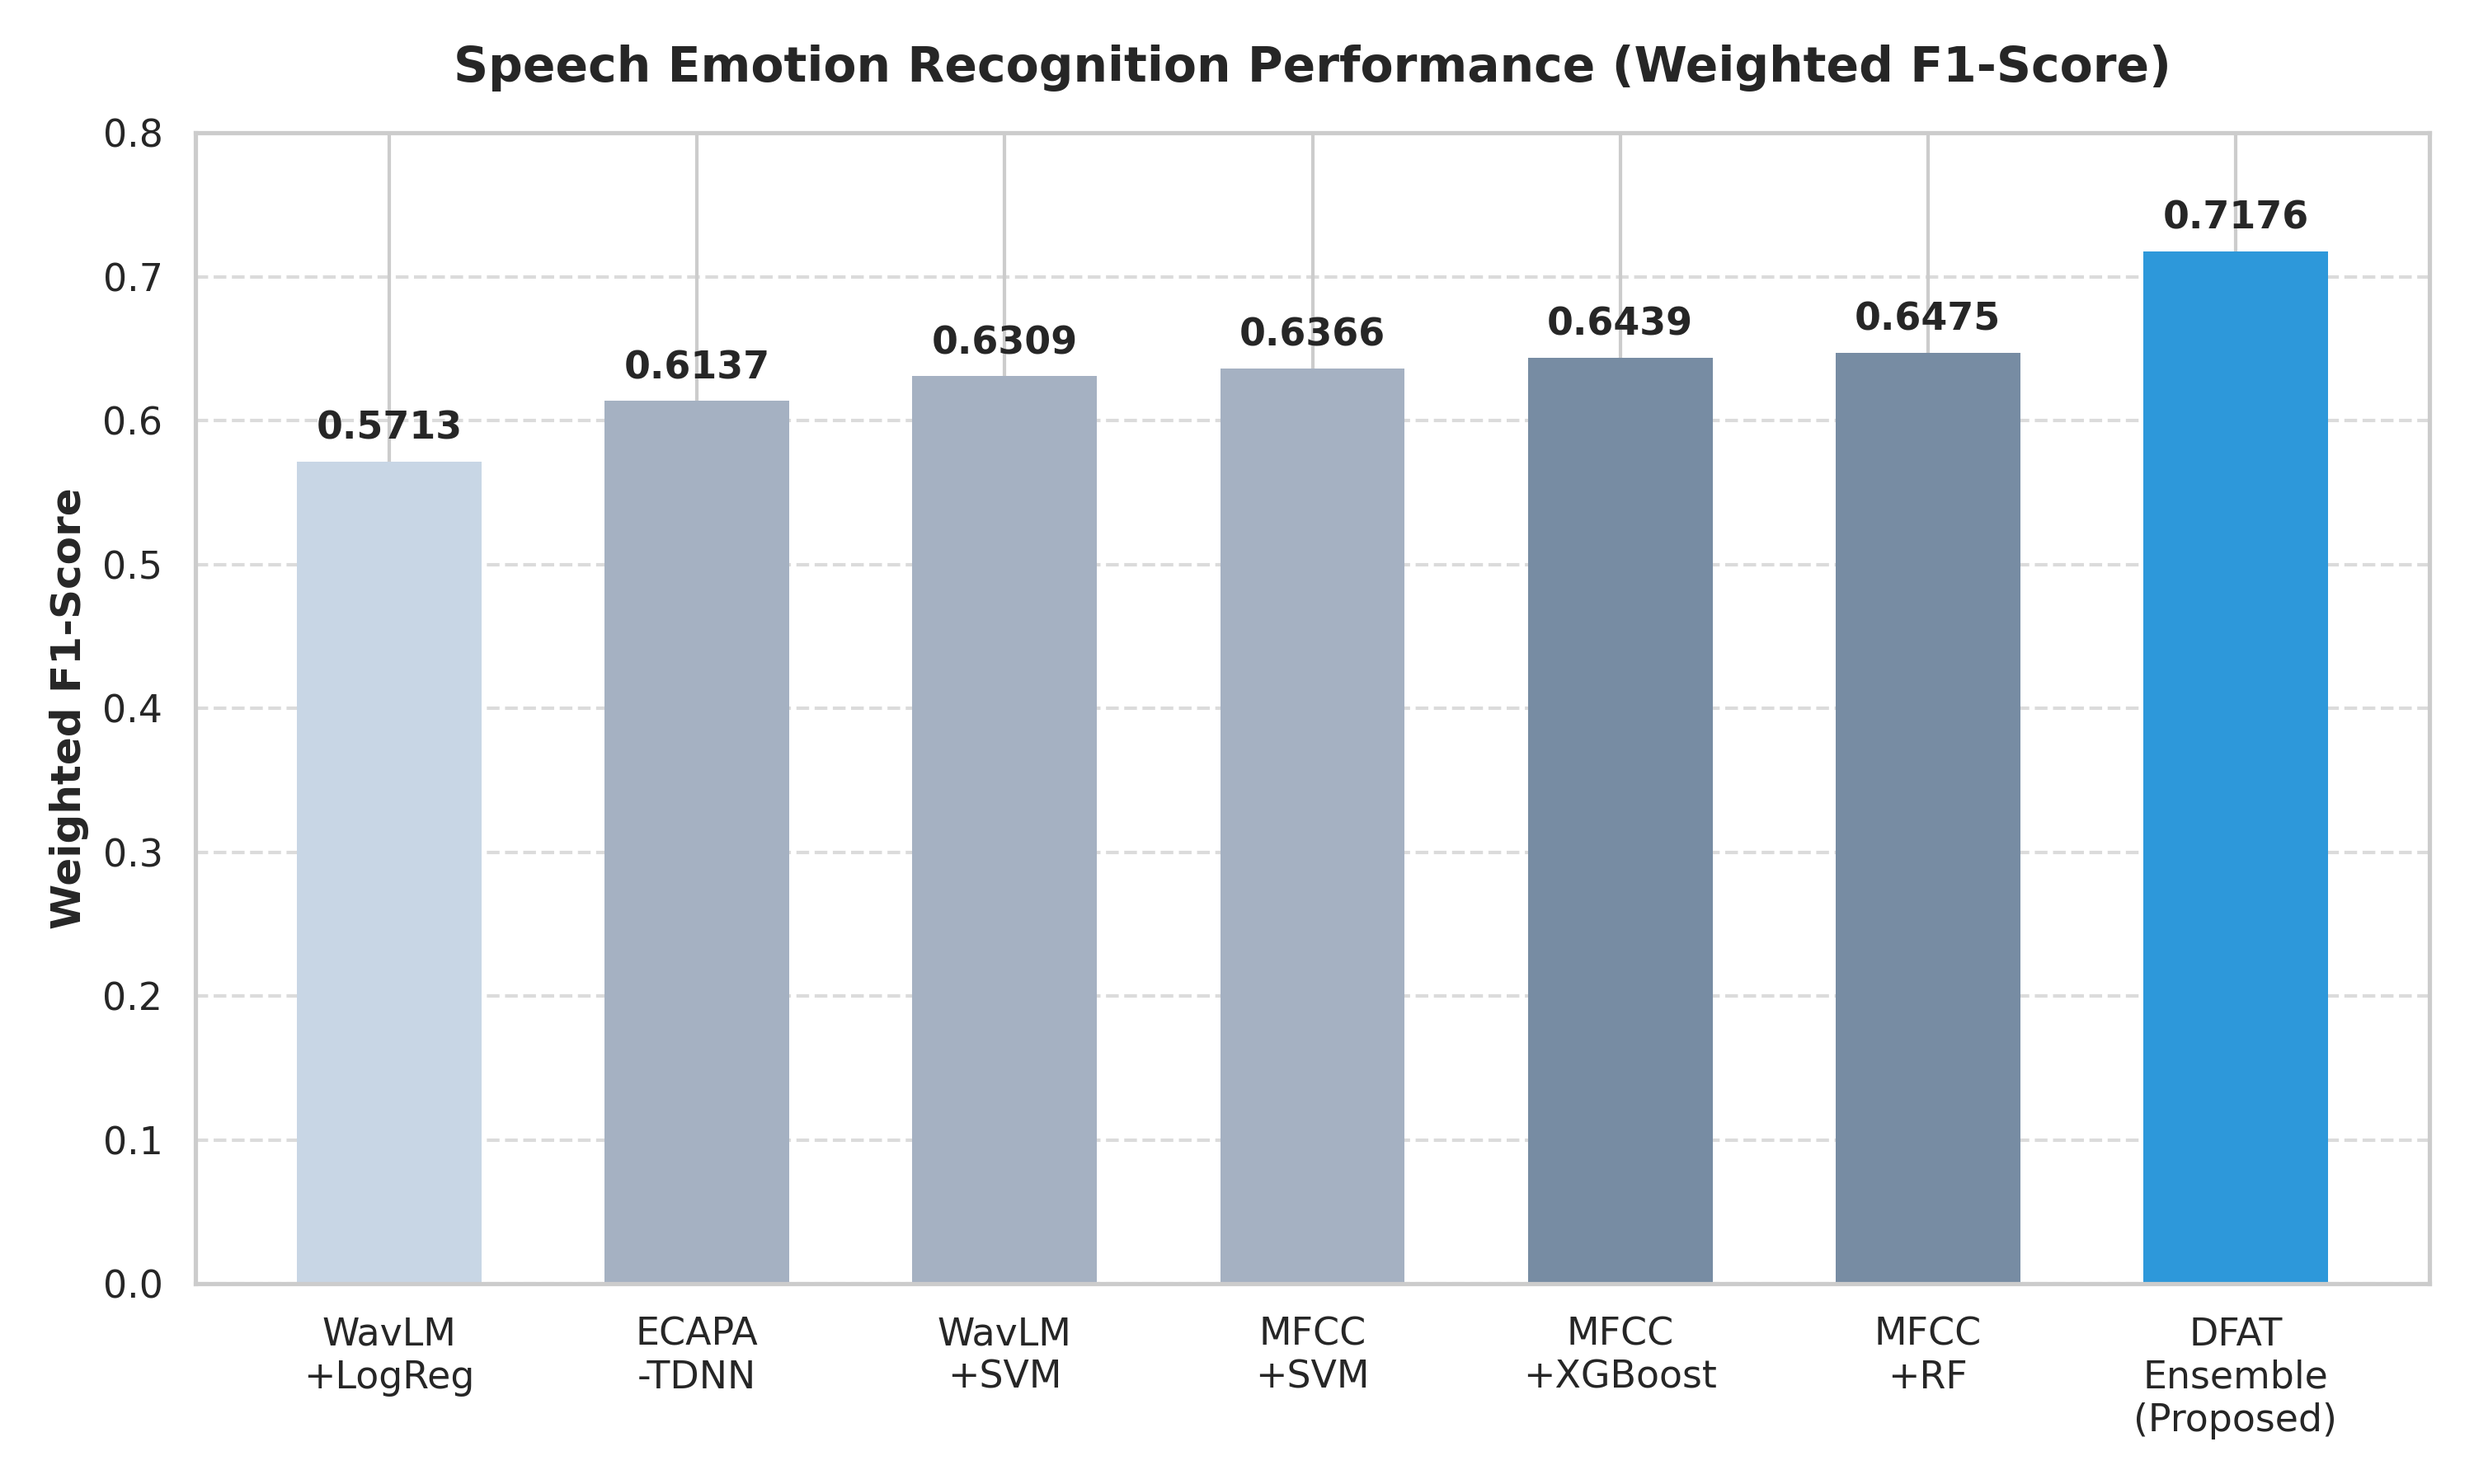
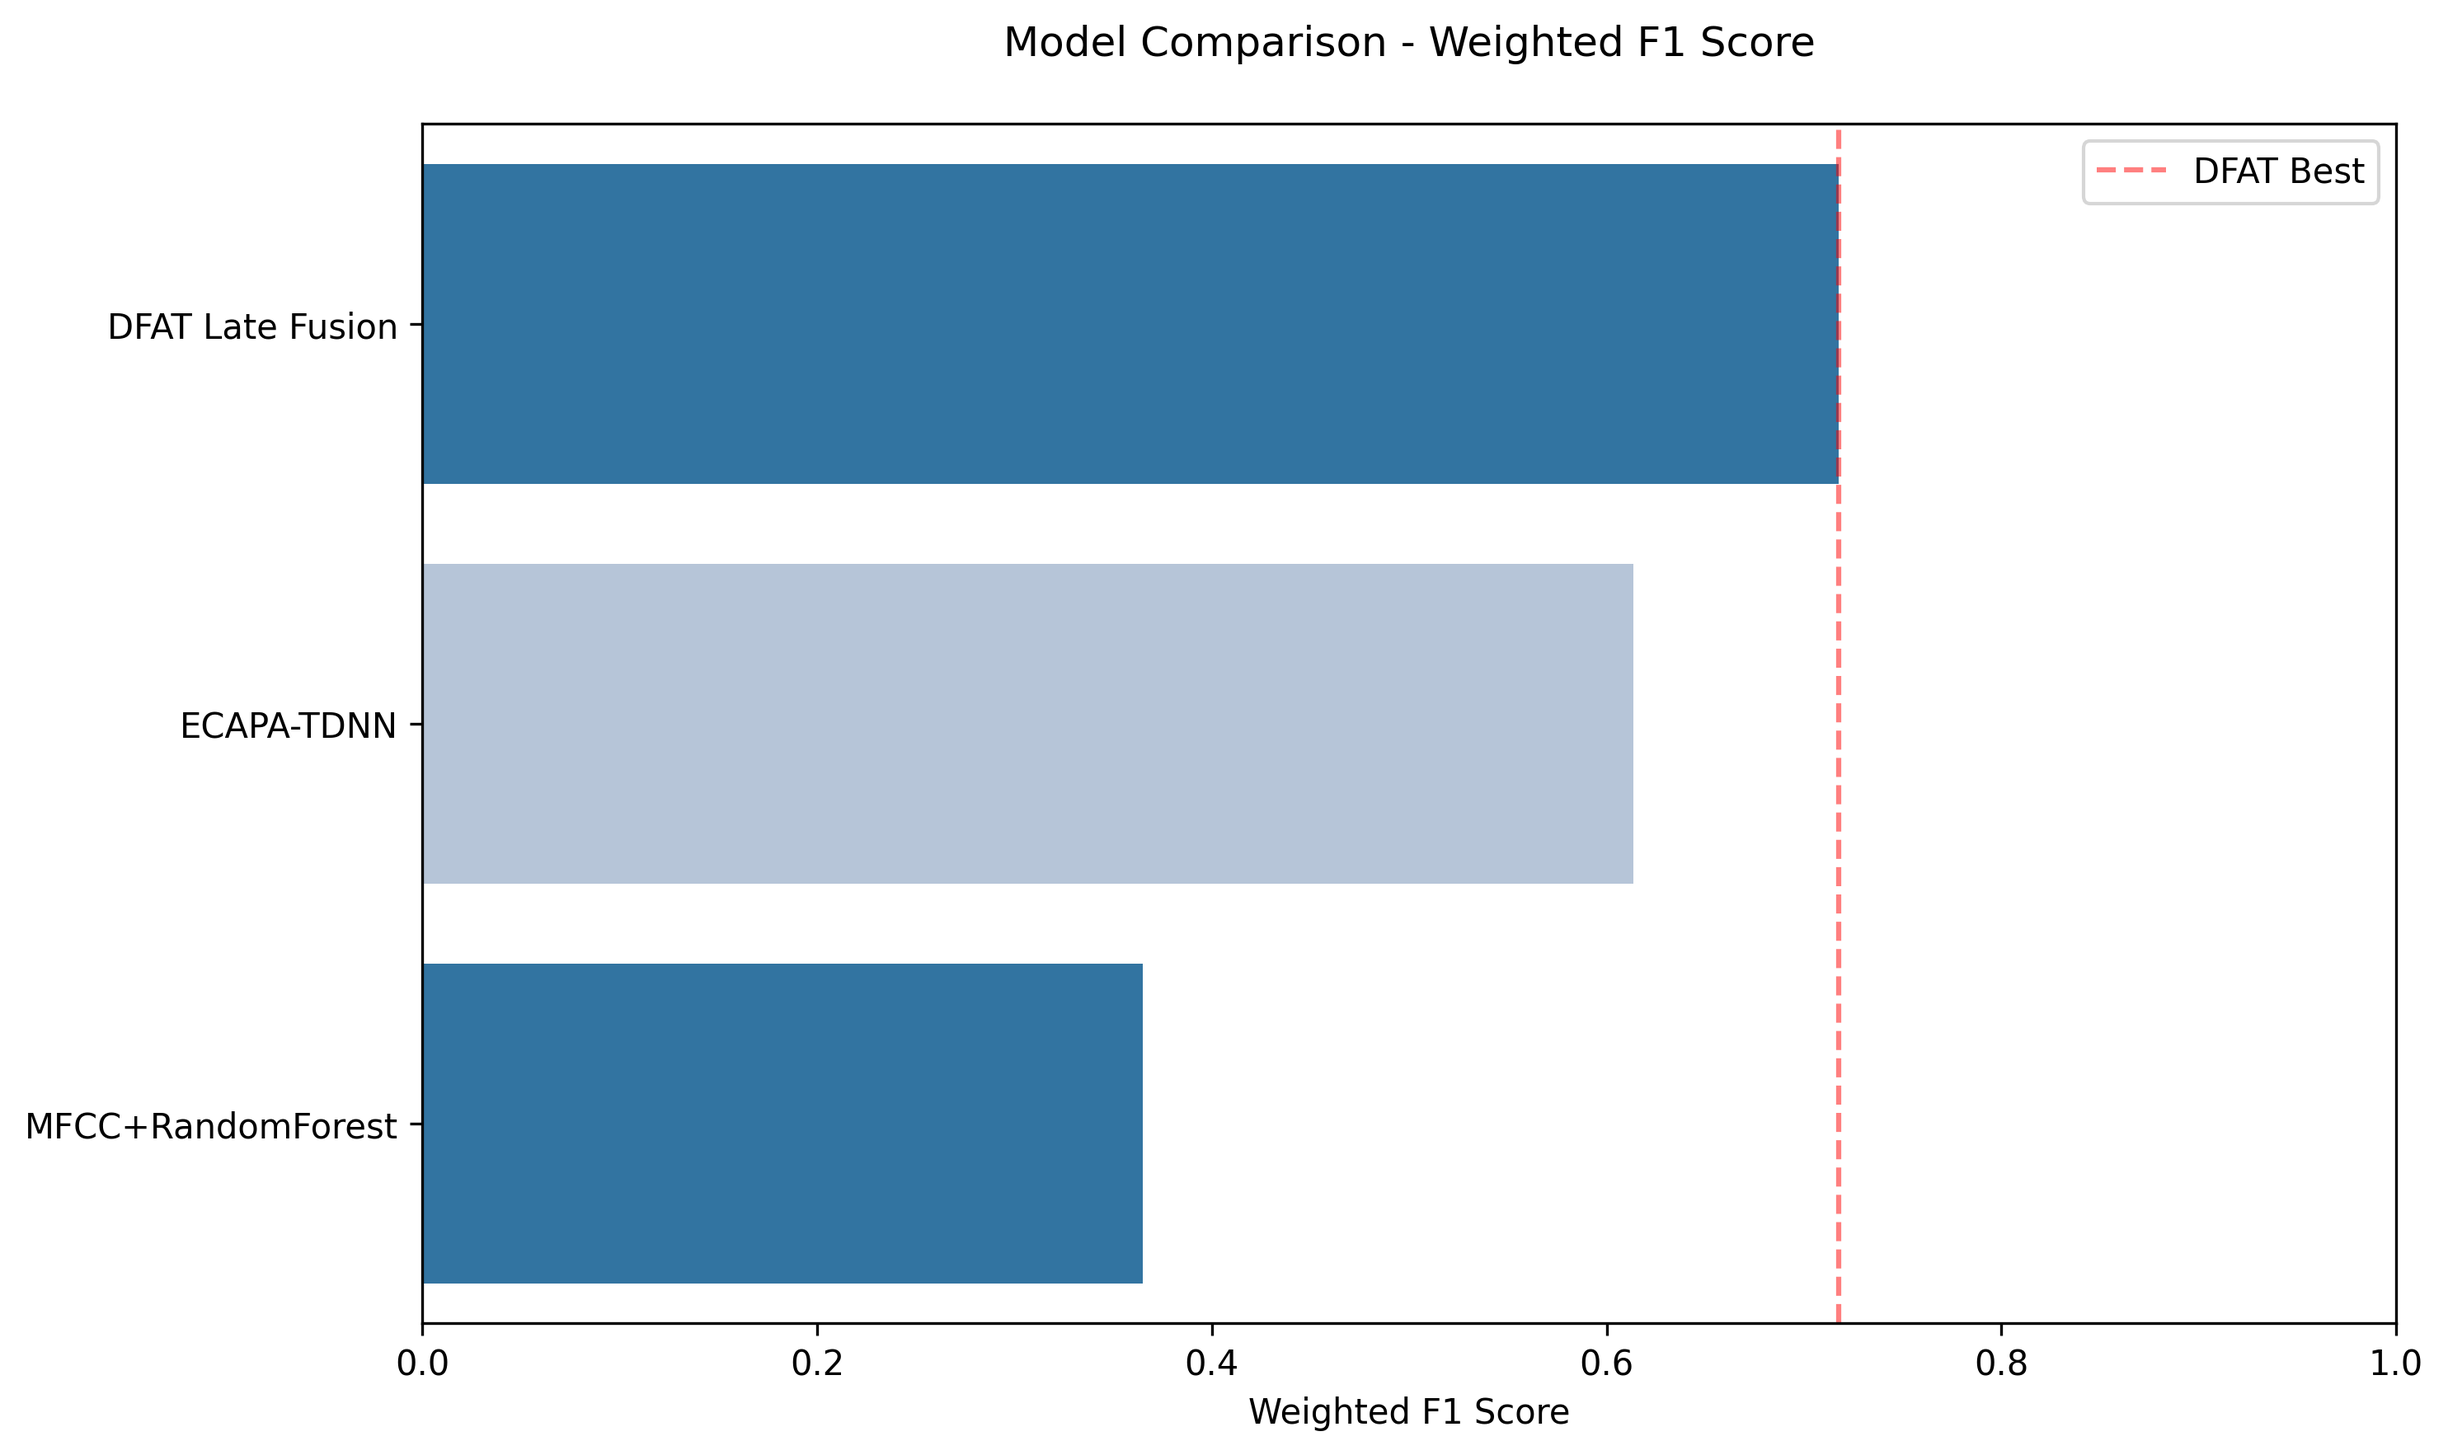
docs(report): integrate class distribution and model comparison charts in technical report

diff --git a/Report_SER.tex b/Report_SER.tex
@@ -181,7 +181,7 @@ To eliminate identity leakage, speakers are strictly partitioned. Figure~\ref{fi
     \label{fig:speaker_hist}
 \end{figure}
 
-Table~\ref{tab:class_dist} confirms that despite the greedy speaker-independent allocation, the relative class distribution remains stable across splits without severe degradation.
+Table~\ref{tab:class_dist} confirms that despite the greedy speaker-independent allocation, the relative class distribution remains stable across splits without severe degradation. Figure~\ref{fig:class_dist} visualizes this balance.
 
 \begin{table}[h]
 \centering
@@ -197,6 +197,13 @@ Test & 175 & 157 & 206 & 138 \\
 \caption{Class distribution across splits.}
 \label{tab:class_dist}
 \end{table}
+
+\begin{figure}[h]
+    \centering
+    \includegraphics[width=0.7\linewidth]{report_images/class_distribution.png}
+    \caption{Class distribution across splits.}
+    \label{fig:class_dist}
+\end{figure}
 
 
 \section{Experimental Protocol}
@@ -291,7 +298,7 @@ Reproducibility is enforced through:
 \chapter{Results and Discussion}
 
 \section{Main Benchmark Results}
-The primary benchmark results on the integrity-checked test set are presented in Table~\ref{tab:benchmark}.
+The primary benchmark results on the integrity-checked test set are presented in Table~\ref{tab:benchmark} and visually summarized in Figure~\ref{fig:model_comp}.
 
 \begin{table}[h]
 \centering
@@ -309,6 +316,13 @@ The primary benchmark results on the integrity-checked test set are presented in
 \caption{Comparative benchmark on the held-out test set.}
 \label{tab:benchmark}
 \end{table}
+
+\begin{figure}[h]
+    \centering
+    \includegraphics[width=0.7\linewidth]{report_images/model_comparison.png}
+    \caption{Main benchmark comparison (Weighted F1 score).}
+    \label{fig:model_comp}
+\end{figure}
 
 \textbf{Interpretation}: Under the current protocol, DFAT Late Fusion appears to be the most effective model, achieving a wF1 of 0.7176, which is an absolute gain of $+0.1039$ over the deep ECAPA-TDNN baseline and nearly double the performance of the classical MFCC+RF pipeline. The standard deviation ($\sigma=0.0094$) for the multi-seed RF indicates that the classical methods are highly sensitive to initialization variations, whereas deep representation learning offers substantially higher stability.
 
@@ -353,7 +367,7 @@ Sad     & 0.784 & 0.704 & 0.741 & 108 \\
 \textbf{What it means for Vietnamese SER}: Acoustic-only models are fundamentally limited by class overlap; thus, linguistic features are particularly critical for distinguishing subtle emotional states.
 
 \section{Error and Failure Analysis}
-Analyzing the confusion mechanisms reveals how the models perceive the data and where they fundamentally fail. Table~\ref{tab:perclass} highlighted the disparity in class-wise performance, which is visually summarized in Figure~\ref{fig:per_class_f1}.
+Analyzing the confusion mechanisms reveals how the models perceive the data and where they fundamentally fail. Table~\ref{tab:perclass} highlighted the disparity in class-wise performance, which is visually summarized in Figure~\ref{fig:per_class_f1}. The detailed confusion counts are presented in Figure~\ref{fig:confusion_matrices}.
 
 \begin{figure}[h]
     \centering
